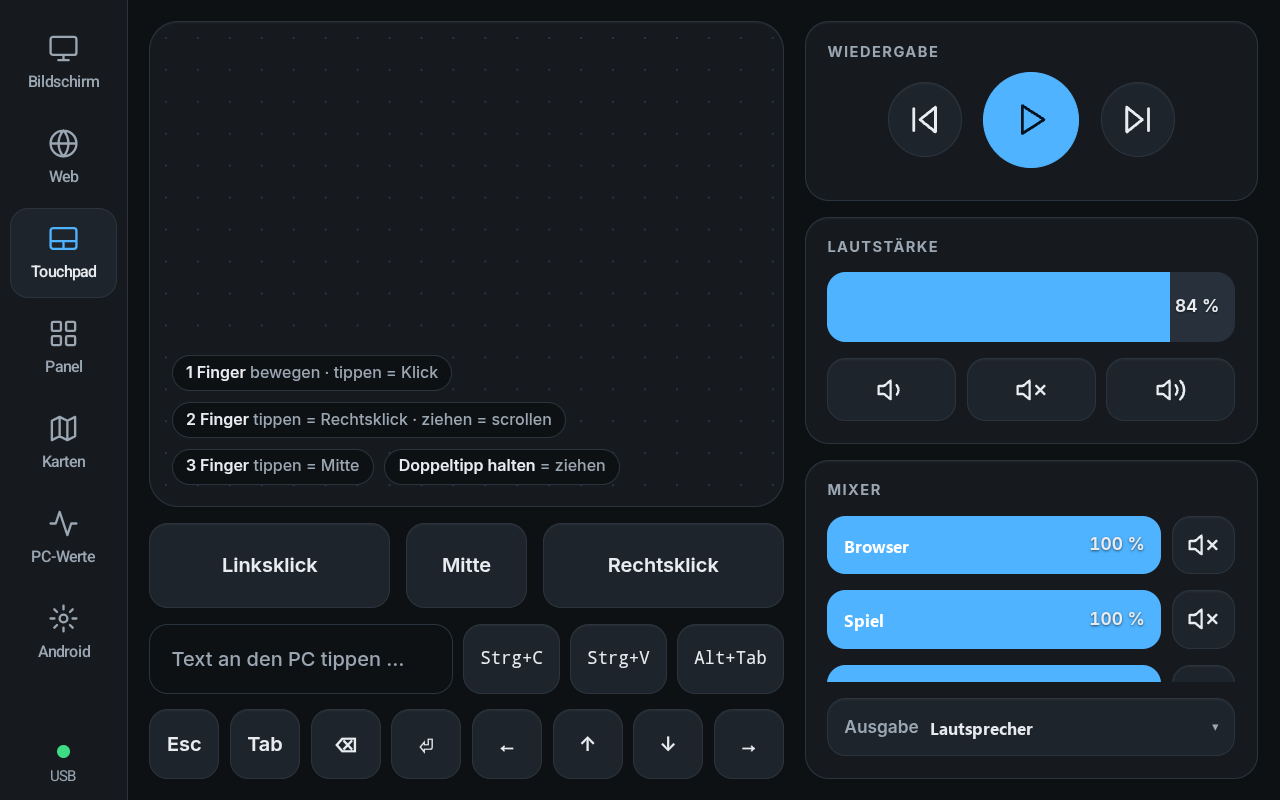
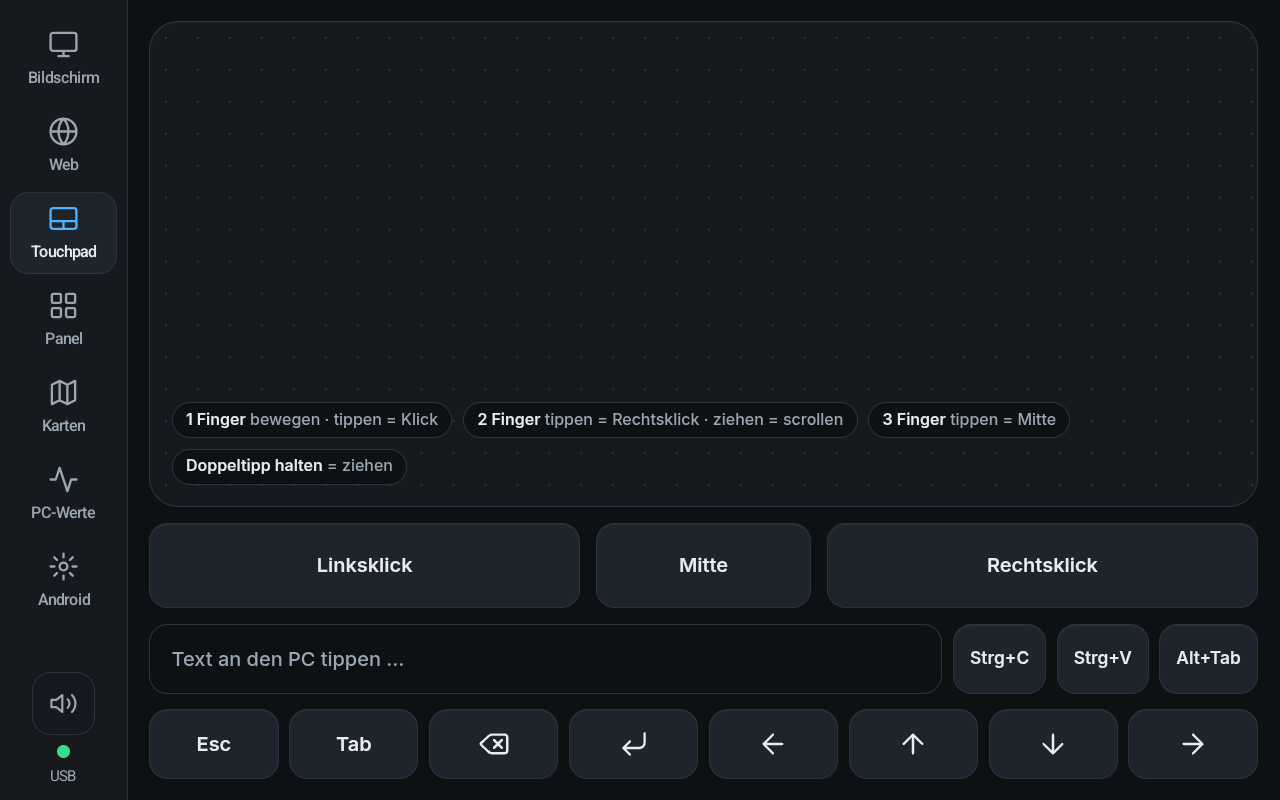
Doku: Ton-Feld und neues Touchpad

diff --git a/docs/guide.md b/docs/guide.md
@@ -1,13 +1,13 @@
 # Guide: Tablet Deck benutzen
 
 Tablet Deck macht aus einem Android-Tablet eine Erweiterung für den Windows-PC: Spiel-Panels mit großen
-Tasten, Touchpad mit Medien und Lautstärke, PC-Messwerte, Karten und Webseiten. Dieser Guide zeigt den
+Tasten, Touchpad, Ton und Mixer, PC-Messwerte, Karten und Webseiten. Dieser Guide zeigt den
 Alltag; Einrichtung und Fehlersuche stehen in [install.md](install.md).
 
 ## Inhalt
 1. [Die Leiste am Tablet](#1-die-leiste-am-tablet)
 2. [Spiel-Panels](#2-spiel-panels)
-3. [Touchpad, Medien und Lautstärke](#3-touchpad-medien-und-lautstärke)
+3. [Touchpad und Ton](#3-touchpad-und-ton)
 4. [PC-Werte](#4-pc-werte)
 5. [Panels bearbeiten (Editor)](#5-panels-bearbeiten-editor)
 6. [Panel automatisch erzeugen](#6-panel-automatisch-erzeugen)
@@ -24,13 +24,13 @@ Links am Tablet sitzt die Leiste mit den Kacheln (einstellbar in `launcher.json`
 |---|---|
 | **Bildschirm** | Tablet als Zweitbildschirm (spacedesk per USB) |
 | **Web** | Webseiten im Tablet-Browser; Seiten lassen sich vom PC ans Tablet schicken |
-| **Touchpad** | Maus, Tastatur-Kürzel, Medien, Lautstärke und Mixer |
+| **Touchpad** | Maus, Text und Tastatur-Kürzel |
 | **Panel** | Spiel-Panel des laufenden Spiels |
 | **Karten** | Spielkarten (Map Genie zuerst, wo vorhanden), siehe [Karten](#9-karten) |
 | **PC-Werte** | CPU, GPU, Speicher, Lüfter, FPS |
 | **Android** | Android-Einstellungen |
 
-Der Punkt unten zeigt die Verbindung (**USB** oder **WLAN**). Läuft ein bekanntes Spiel, wechselt das
+Der kleine **Lautsprecher** darunter öffnet das [Ton-Feld](#ton-feld). Der Punkt unten zeigt die Verbindung (**USB** oder **WLAN**). Läuft ein bekanntes Spiel, wechselt das
 Tablet von selbst auf dessen Panel (Spiele und Programmnamen in `games.json`).
 
 ## 2. Spiel-Panels
@@ -54,14 +54,24 @@ Tablet von selbst auf dessen Panel (Spiele und Programmnamen in `games.json`).
 Manche Spiele werten eine Taste erst nach einer Mindest-Haltezeit (Star Citizen z. B. Autolandung); das
 Panel hält sie dann von selbst lange genug. Mehr zur Star-Citizen-Belegung: [star-citizen.md](star-citizen.md).
 
-## 3. Touchpad, Medien und Lautstärke
-![Touchpad mit Medien, Lautstärke und Mixer](bilder/tablet-touchpad.png)
+## 3. Touchpad und Ton
+![Touchpad](bilder/tablet-touchpad.png)
 
 - **Fläche:** 1 Finger bewegt, Tipp = Klick; 2 Finger Tipp = Rechtsklick, ziehen = scrollen;
-  3 Finger = Mittelklick; Doppeltipp halten = ziehen.
+  3 Finger = Mittelklick; Doppeltipp halten = ziehen. Die Hinweise dazu verschwinden nach der ersten Berührung.
 - **Textfeld:** tippt Text am PC ein; darunter häufige Kürzel und Pfeiltasten.
-- **Wiedergabe:** Zurück / Abspielen / Weiter für den laufenden Player.
-- **Lautstärke** des PCs, **Mixer** je Programm (mit Stumm-Knopf) und **Ausgabe**: Wiedergabegerät wählen.
+
+### Ton-Feld
+![Ton-Feld über dem Panel](bilder/tablet-ton.png)
+
+Der **Lautsprecher** unten in der Leiste klappt das Ton-Feld über der aktuellen Ansicht auf (Panel, Karte, Web …).
+Noch einmal tippen oder daneben tippen schließt es; dieser Tipp löst nichts aus, gehaltene Tasten bleiben gehalten.
+In der Vollbild-Karte und über anderen Apps (spacedesk) gibt es den Knopf nicht.
+
+- **Lautstärke** des PCs und **Mixer** je Programm, jeweils mit Stumm-Knopf. Ist der PC stumm, ist der Lautsprecher
+  in der Leiste rot durchgestrichen.
+- **Ausgabe:** Wiedergabegerät wählen.
+- **Wiedergabe:** Leiser / Zurück / Abspielen oder Pause / Weiter / Lauter.
 
 ## 4. PC-Werte
 ![PC-Werte: CPU, GPU, Speicher, Mainboard](bilder/tablet-pc-werte.png)

diff --git a/README.md b/README.md
@@ -12,7 +12,7 @@ Tablet-Einrichtung: [docs/tablet-setup.md](docs/tablet-setup.md).
 
 ```
 Tablet: LineageOS-GSI + Magisk ── Launcher-App "Tablet Deck" (Startbildschirm)
-          │  WebViews: Panel /, Touchpad + Medien /touchpad/  ·  Steuerseite /ctl.html
+          │  WebViews: Panel /, Touchpad /touchpad/, Ton /ton/  ·  Steuerseite /ctl.html
           │  USB-Kabel: adb reverse tcp:8765 → PC (kein WLAN nötig)
 PC:     Hub (python -m bridge)  ── SendInput: Tasten, Maus, Text, Medientasten · Lautstärke (pycaw)
                                 ── Taskleisten-Symbol · Automatik nach laufenden Programmen
@@ -77,8 +77,11 @@ im Editor und am Tablet mit Schloss neben den eigenen (`profiles/`), nichts wird
 Updates ändern daher nie etwas Eigenes. Hat ein Spiel eigene Panels, bleibt das erste eigene das Standard-Panel;
 ein mitgeliefertes ist nur der Rückfall. Tasten mit `sc` bekommen beim Laden die echte Star-Citizen-Belegung.
 
-## Touchpad-Seite: Lautstärke und Mixer
-Unter dem Master-Regler zeigt die Karte „Mixer“ je App einen Regler mit Stumm-Knopf (Apps mit mehreren
+## Ton-Feld: Lautstärke, Mixer, Wiedergabe
+Der kleine Lautsprecher-Knopf in der Leiste klappt die Seite `/ton/` über der aktuellen Ansicht auf (kein
+Moduswechsel, gehaltene Tasten bleiben; `SoundPane.java`). Wer lieber eine Kachel möchte: in `launcher.json`
+`{"id": "sound", "title": "Ton", "type": "web", "path": "/ton/"}`.
+Unter dem Gesamt-Regler zeigt die Seite je App einen Regler mit Stumm-Knopf (Apps mit mehreren
 Audio-Sitzungen erscheinen einmal, Systemklänge als „Systemklänge“) und darunter die Wiedergabegeräte; ein Tipp
 stellt die Standard-Ausgabe um. Nachrichten (`/ws`, Details in `bridge/pcinput.py`):
 - Tablet → PC: `{"t":"app_volume","k":"1234","v":0.4}`, `{"t":"app_mute","k":"1234","on":true}`,

diff --git a/CHANGELOG.md b/CHANGELOG.md
@@ -1,5 +1,19 @@
 # Änderungen
 
+## 5.3 – in Arbeit
+
+### Ton und Touchpad
+- **Ton-Feld:** Lautstärke, Mixer, Ausgabegerät und Wiedergabe sitzen nicht mehr auf der Touchpad-Seite, sondern hinter
+  einem kleinen Lautsprecher in der Leiste. Das Feld klappt über jeder Ansicht auf (Panel, Karte, Web …); daneben tippen
+  schließt es, ohne eine Taste auszulösen. Der Lautsprecher zeigt, ob der PC stumm ist.
+- **Touchpad** über die volle Breite; die Gesten-Hinweise verschwinden nach der ersten Berührung.
+- Regler (Ton und Panel): Beschriftung jetzt gut lesbar (Kontrast über 6:1 statt 1,9:1). Stumm-Knöpfe zeigen den Zustand,
+  Abspielen/Pause ist ein gemeinsames Symbol.
+
+### Aktualisieren
+- Die Launcher-App (APK) mit aktualisieren. Mit einer älteren App fehlt der Lautsprecher; dann zeigt die
+  Touchpad-Seite stattdessen einen Knopf zur Ton-Seite.
+
 ## 5.2 – 23.11.2026
 
 **Geführte Einrichtung** für Leute, die Tablet Deck zum ersten Mal einrichten.

diff --git a/docs/install.md b/docs/install.md
@@ -308,7 +308,7 @@ SHA-256 `69572e37…aa8c48`. Beim ersten Verbinden fragt Android einmal nach der
 Weitere Felder stehen in der [README](../README.md#konfiguration).
 
 ## WLAN-Betrieb (ohne Kabel)
-Touchpad mit Medien, Panel, PC-Werte und die Web-Kachel laufen auch über WLAN. PC-Werte laufen über den Hub (Seite `/stats/`). spacedesk hat ein
+Touchpad, Ton-Feld, Panel, PC-Werte und die Web-Kachel laufen auch über WLAN. PC-Werte laufen über den Hub (Seite `/stats/`). spacedesk hat ein
 eigenes WLAN in seiner App.
 
 **Einrichten**
